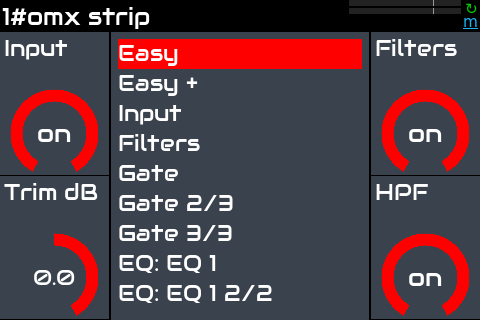
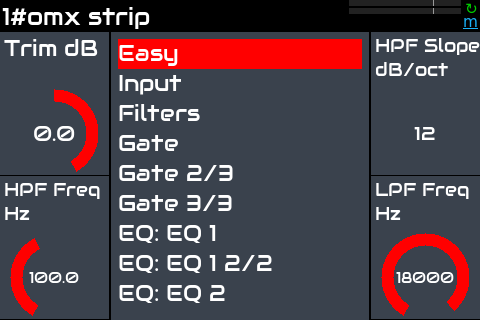
examples/channel-strip: the pictures taken again, one Easy page, the plugin's own
zynthian-ui's tools/panel_screens.py with the snapshot loaded, in the trixie container zynthian-shots:8: zynthian-ui
lane/zynthian-panel-docs with the panel, curve and .so.1 fixes, omx-clap-host 0.36.0 with
lane/param-of-contract-symbol, omx-panel 0.17.3 with lane/easy-from-declared-page. 76 pictures (480x320 and 800x480,
stock and vintage); the 14 here are the 480x320 stock ones the page shows and the V5 page list.

omx-panel now cuts one Easy page, the one omx-strip declares (Trim 0.0, HPF Freq 100.0, HPF Slope 12, LPF Freq 18000
read back from the snapshot), so the pages after it renumber; the section that said the list held two Easy pages
says how the pictures were taken instead.

diff --git a/examples/channel-strip/README.md b/examples/channel-strip/README.md
@@ -38,14 +38,14 @@ values were set.
 
 | Page | Controls | What the group does | |
 |---|---|---|---|
-| Easy | Input, Trim, Filters, HPF | The quick setup: the input stage on, its trim, the filters on, the high-pass on. | ![Easy](images/omx-strip-480x320-stock-00-easy.png) |
+| Easy | Trim, HPF Freq, HPF Slope, LPF Freq | The quick setup, the plugin's own Easy page: the input trim, the high-pass frequency and slope, the low-pass frequency. Here the high-pass at 100 Hz. | ![Easy](images/omx-strip-480x320-stock-00-easy.png) |
 | Input | Input | The input stage on or off; its trim is on the Easy page. | |
-| Filters | Filters, HPF, LPF, LPF Slope | The high-pass and low-pass filters: the block on, each filter on, the slopes (12 or 24 dB/oct). Here the high-pass is on at 100 Hz. | ![Filters](images/omx-strip-480x320-stock-03-filters.png) |
-| Gate, Gate 2/3, Gate 3/3 | Gate, Threshold, Ratio, Range; Attack, Release, Knee Start, Knee End; Hold, Hysteresis | The noise gate: where it opens, how hard and how far it closes, how fast, its soft knee, how long it holds open and the gap between opening and closing. Here on, at -50 dB, closing by 30 dB. | ![Gate](images/omx-strip-480x320-stock-04-gate.png) ![Gate 2/3](images/omx-strip-480x320-stock-05-gate-2-3.png) |
-| EQ: EQ 1, EQ: EQ 1 2/2 | EQ, EQ Bands, Type, Freq; Gain, Q, on | The EQ on and how many bands it has (1 to 32, four at first), then band 1: its shape (Bell, Low Shelf, High Shelf, ...), frequency, gain, width and on. Band 1 is off here. | ![EQ: EQ 1](images/omx-strip-480x320-stock-07-eq-eq-1.png) ![EQ: EQ 1 2/2](images/omx-strip-480x320-stock-08-eq-eq-1-2-2.png) |
-| EQ: EQ 2 .. EQ: EQ 4 (each with a 2/2) | Type, Freq, Gain, Q; on | Bands 2 to 4: here a Bell at 300 Hz, -3 dB, Q 1.2; a Bell at 3 kHz, +2 dB; a High Shelf at 10 kHz, +1.5 dB. A band past `EQ Bands` has no page. | ![EQ: EQ 2](images/omx-strip-480x320-stock-09-eq-eq-2.png) ![EQ: EQ 3](images/omx-strip-480x320-stock-11-eq-eq-3.png) ![EQ: EQ 4](images/omx-strip-480x320-stock-13-eq-eq-4.png) |
-| Comp, Comp 2/3, Comp 3/3 | Comp, Threshold, Ratio, Knee; Attack, Release, Makeup, Kind; Mix, Detector Oversampling | The compressor: where and how hard it works, its knee, how fast, the gain it gives back, Compressor or Limiter, the dry/wet mix, the detector's oversampling. Here on, -20 dB, 3:1, 10 ms, 150 ms, +3 dB. | ![Comp](images/omx-strip-480x320-stock-15-comp.png) ![Comp 2/3](images/omx-strip-480x320-stock-16-comp-2-3.png) |
-| Order | Order | The order the five stages run in: 0 is the console's own, input > filters > gate > EQ > comp; 1 to 119 every other order. | ![Order](images/omx-strip-480x320-stock-18-order.png) |
+| Filters | Filters, HPF, LPF, LPF Slope | The high-pass and low-pass filters: the block on, each filter on, the slopes (12 or 24 dB/oct). Here the high-pass is on at 100 Hz. | ![Filters](images/omx-strip-480x320-stock-02-filters.png) |
+| Gate, Gate 2/3, Gate 3/3 | Gate, Threshold, Ratio, Range; Attack, Release, Knee Start, Knee End; Hold, Hysteresis | The noise gate: where it opens, how hard and how far it closes, how fast, its soft knee, how long it holds open and the gap between opening and closing. Here on, at -50 dB, closing by 30 dB. | ![Gate](images/omx-strip-480x320-stock-03-gate.png) ![Gate 2/3](images/omx-strip-480x320-stock-04-gate-2-3.png) |
+| EQ: EQ 1, EQ: EQ 1 2/2 | EQ, EQ Bands, Type, Freq; Gain, Q, on | The EQ on and how many bands it has (1 to 32, four at first), then band 1: its shape (Bell, Low Shelf, High Shelf, ...), frequency, gain, width and on. Band 1 is off here. | ![EQ: EQ 1](images/omx-strip-480x320-stock-06-eq-eq-1.png) ![EQ: EQ 1 2/2](images/omx-strip-480x320-stock-07-eq-eq-1-2-2.png) |
+| EQ: EQ 2 .. EQ: EQ 4 (each with a 2/2) | Type, Freq, Gain, Q; on | Bands 2 to 4: here a Bell at 300 Hz, -3 dB, Q 1.2; a Bell at 3 kHz, +2 dB; a High Shelf at 10 kHz, +1.5 dB. A band past `EQ Bands` has no page. | ![EQ: EQ 2](images/omx-strip-480x320-stock-08-eq-eq-2.png) ![EQ: EQ 3](images/omx-strip-480x320-stock-10-eq-eq-3.png) ![EQ: EQ 4](images/omx-strip-480x320-stock-12-eq-eq-4.png) |
+| Comp, Comp 2/3, Comp 3/3 | Comp, Threshold, Ratio, Knee; Attack, Release, Makeup, Kind; Mix, Detector Oversampling | The compressor: where and how hard it works, its knee, how fast, the gain it gives back, Compressor or Limiter, the dry/wet mix, the detector's oversampling. Here on, -20 dB, 3:1, 10 ms, 150 ms, +3 dB. | ![Comp](images/omx-strip-480x320-stock-14-comp.png) ![Comp 2/3](images/omx-strip-480x320-stock-15-comp-2-3.png) |
+| Order | Order | The order the five stages run in: 0 is the console's own, input > filters > gate > EQ > comp; 1 to 119 every other order. | ![Order](images/omx-strip-480x320-stock-17-order.png) |
 
 On a V5 (800x480) the list fills the left of the screen:
 
@@ -54,9 +54,9 @@ On a V5 (800x480) the list fills the left of the screen:
 The pages of every omx plugin, how they are cut and named, and the plugins that show a curve, meters or a bar
 group, are in zynthian-ui's `docs/openmixer-panels-on-zynthian.md`.
 
-## Two things these pictures show that are not right yet
+## How these pictures were taken
 
-- The page list holds two `Easy` pages (the second marked `+`): omx-panel derives one Easy page from the plugin's
-  descriptor and omx-strip serves another of different controls.
-- The page names and controller titles shown (`Gate 2/3`, `EQ: EQ 2`, `Trim dB`, `Comp Mix %`) need omx-panel and
-  zynthian-ui with the fixes they were taken with; an older pair shows `Gate: Gate - Gate Knee End` and `Trim d B`.
+With zynthian-ui's lane/zynthian-panel-docs (the panel bound by the layout's `param`, `libomx-panel-render.so.1`),
+omx-clap-host 0.36.0 (a CLAP parameter named by its contract symbol), omx-panel 0.17.3 (one Easy page, the plugin's
+own) and omx-plugins 0.22.4, in a debian trixie container; the same run took 480x320 and 800x480, stock and vintage.
+An older pair shows a second Easy page marked `+`, `Gate: Gate - Gate Knee End` and `Trim d B`.
